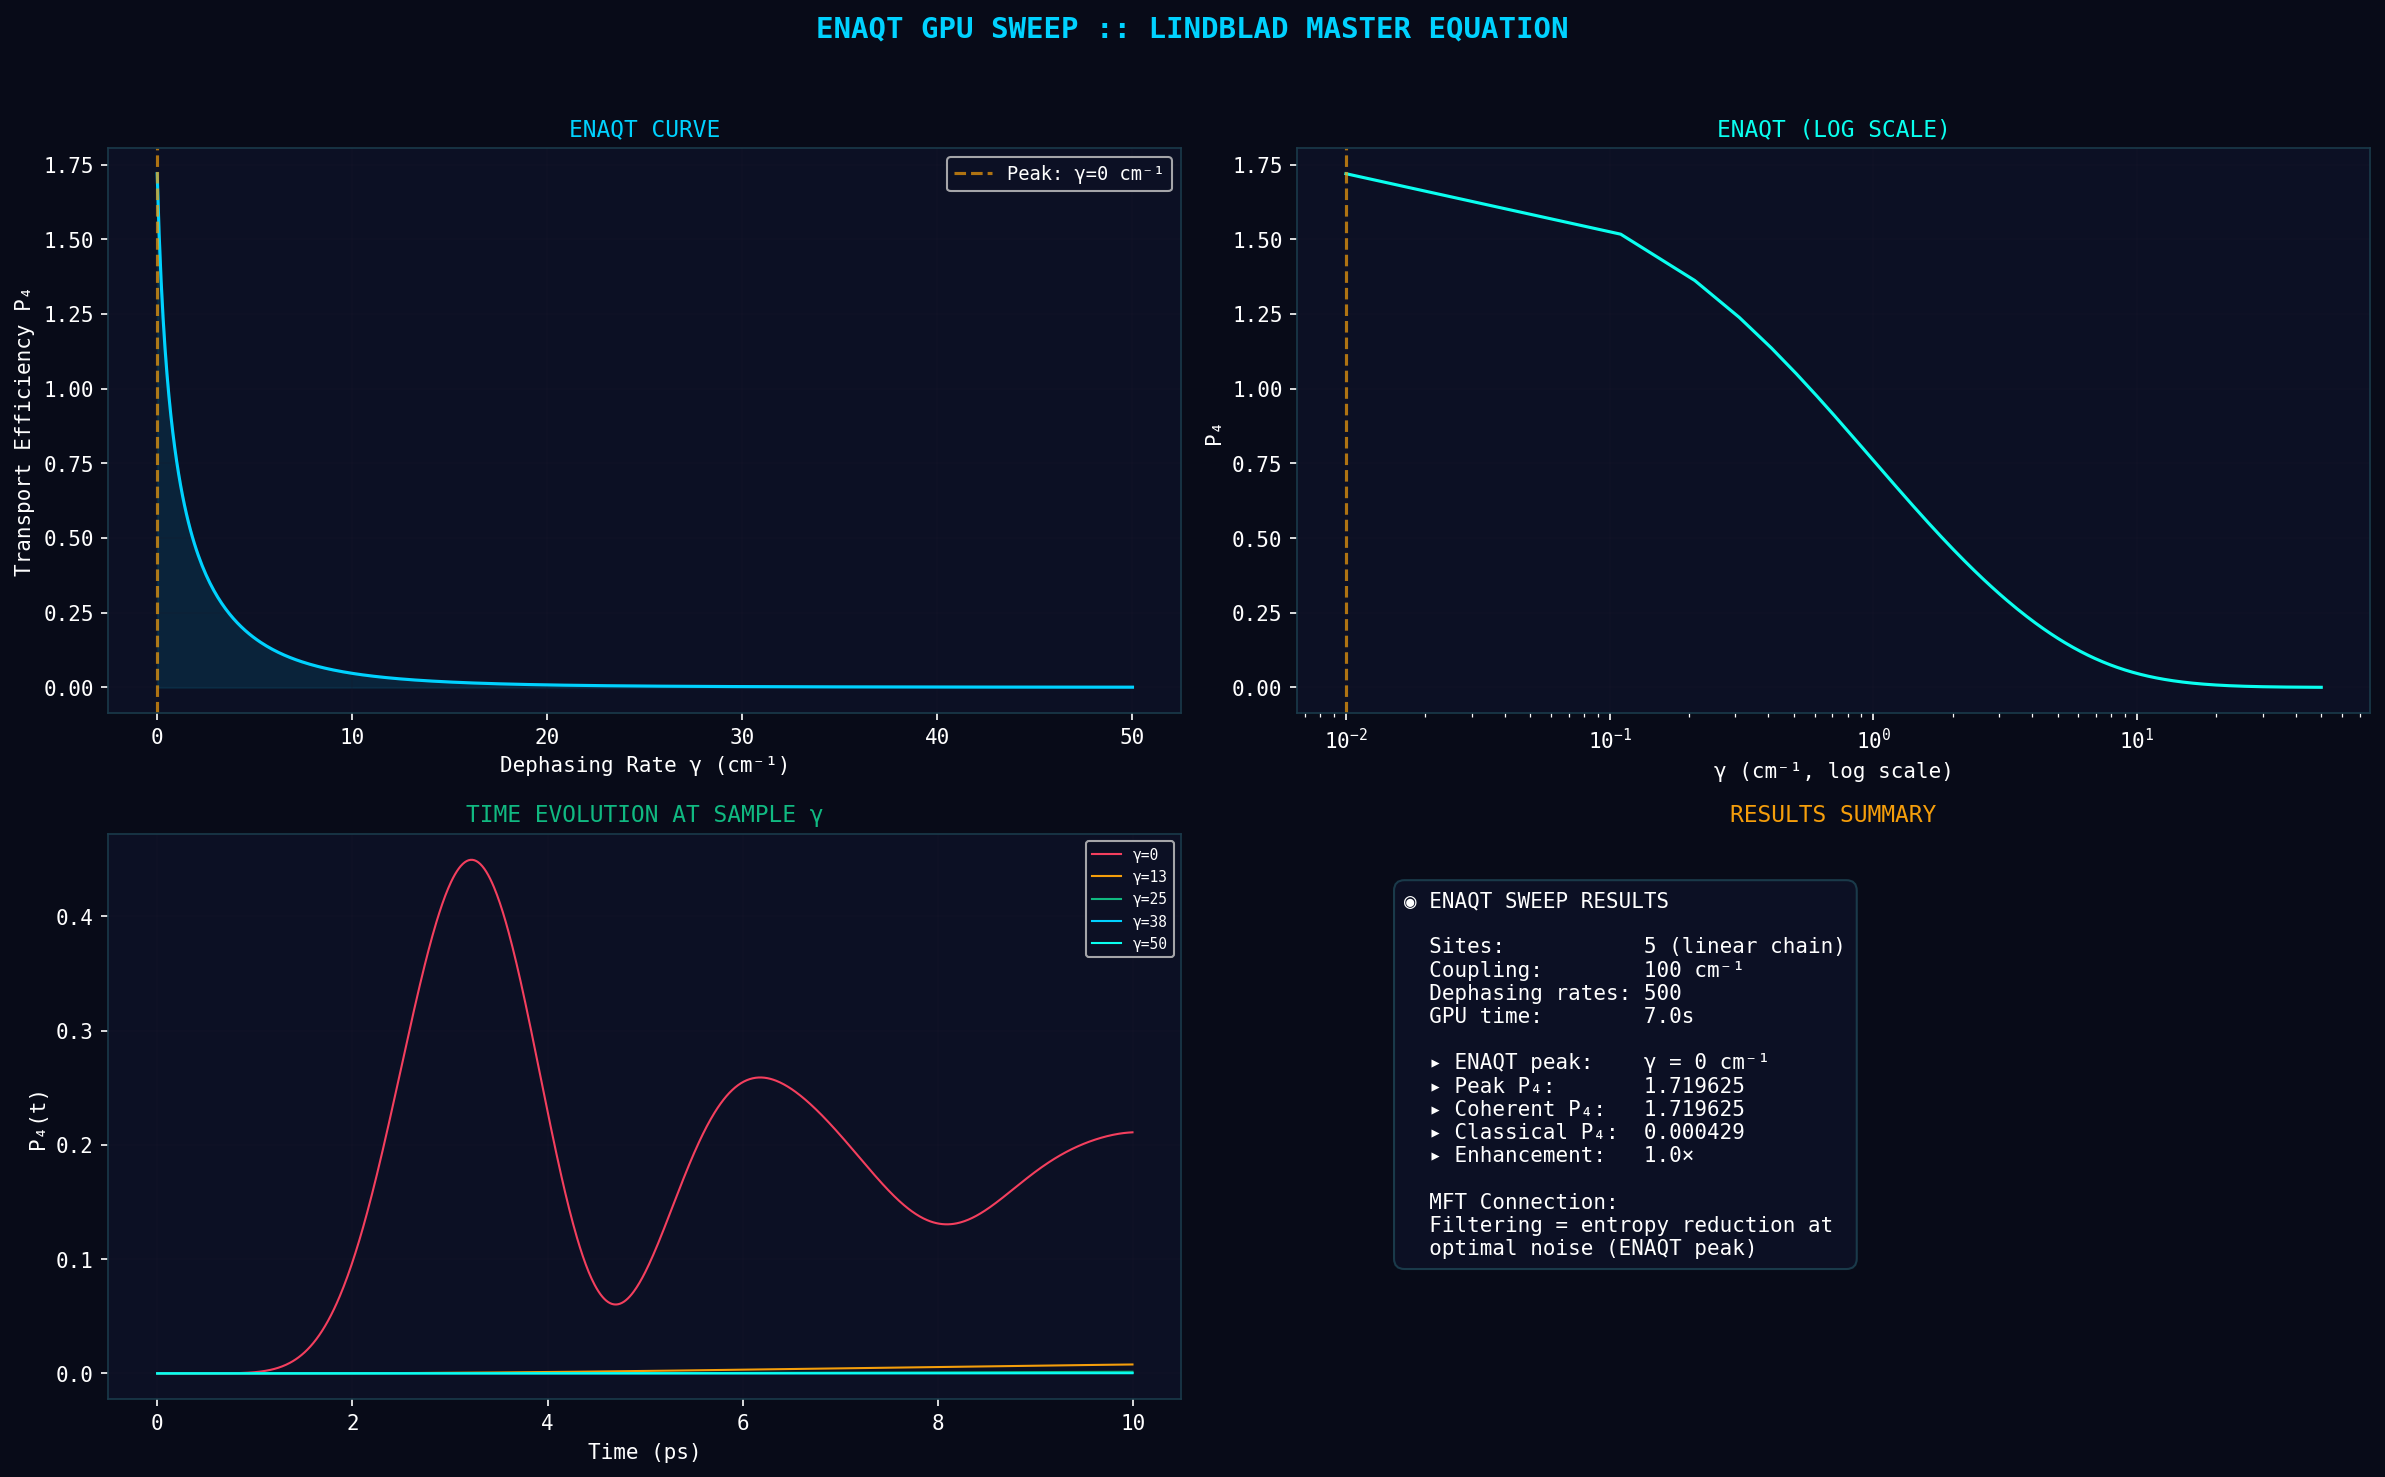
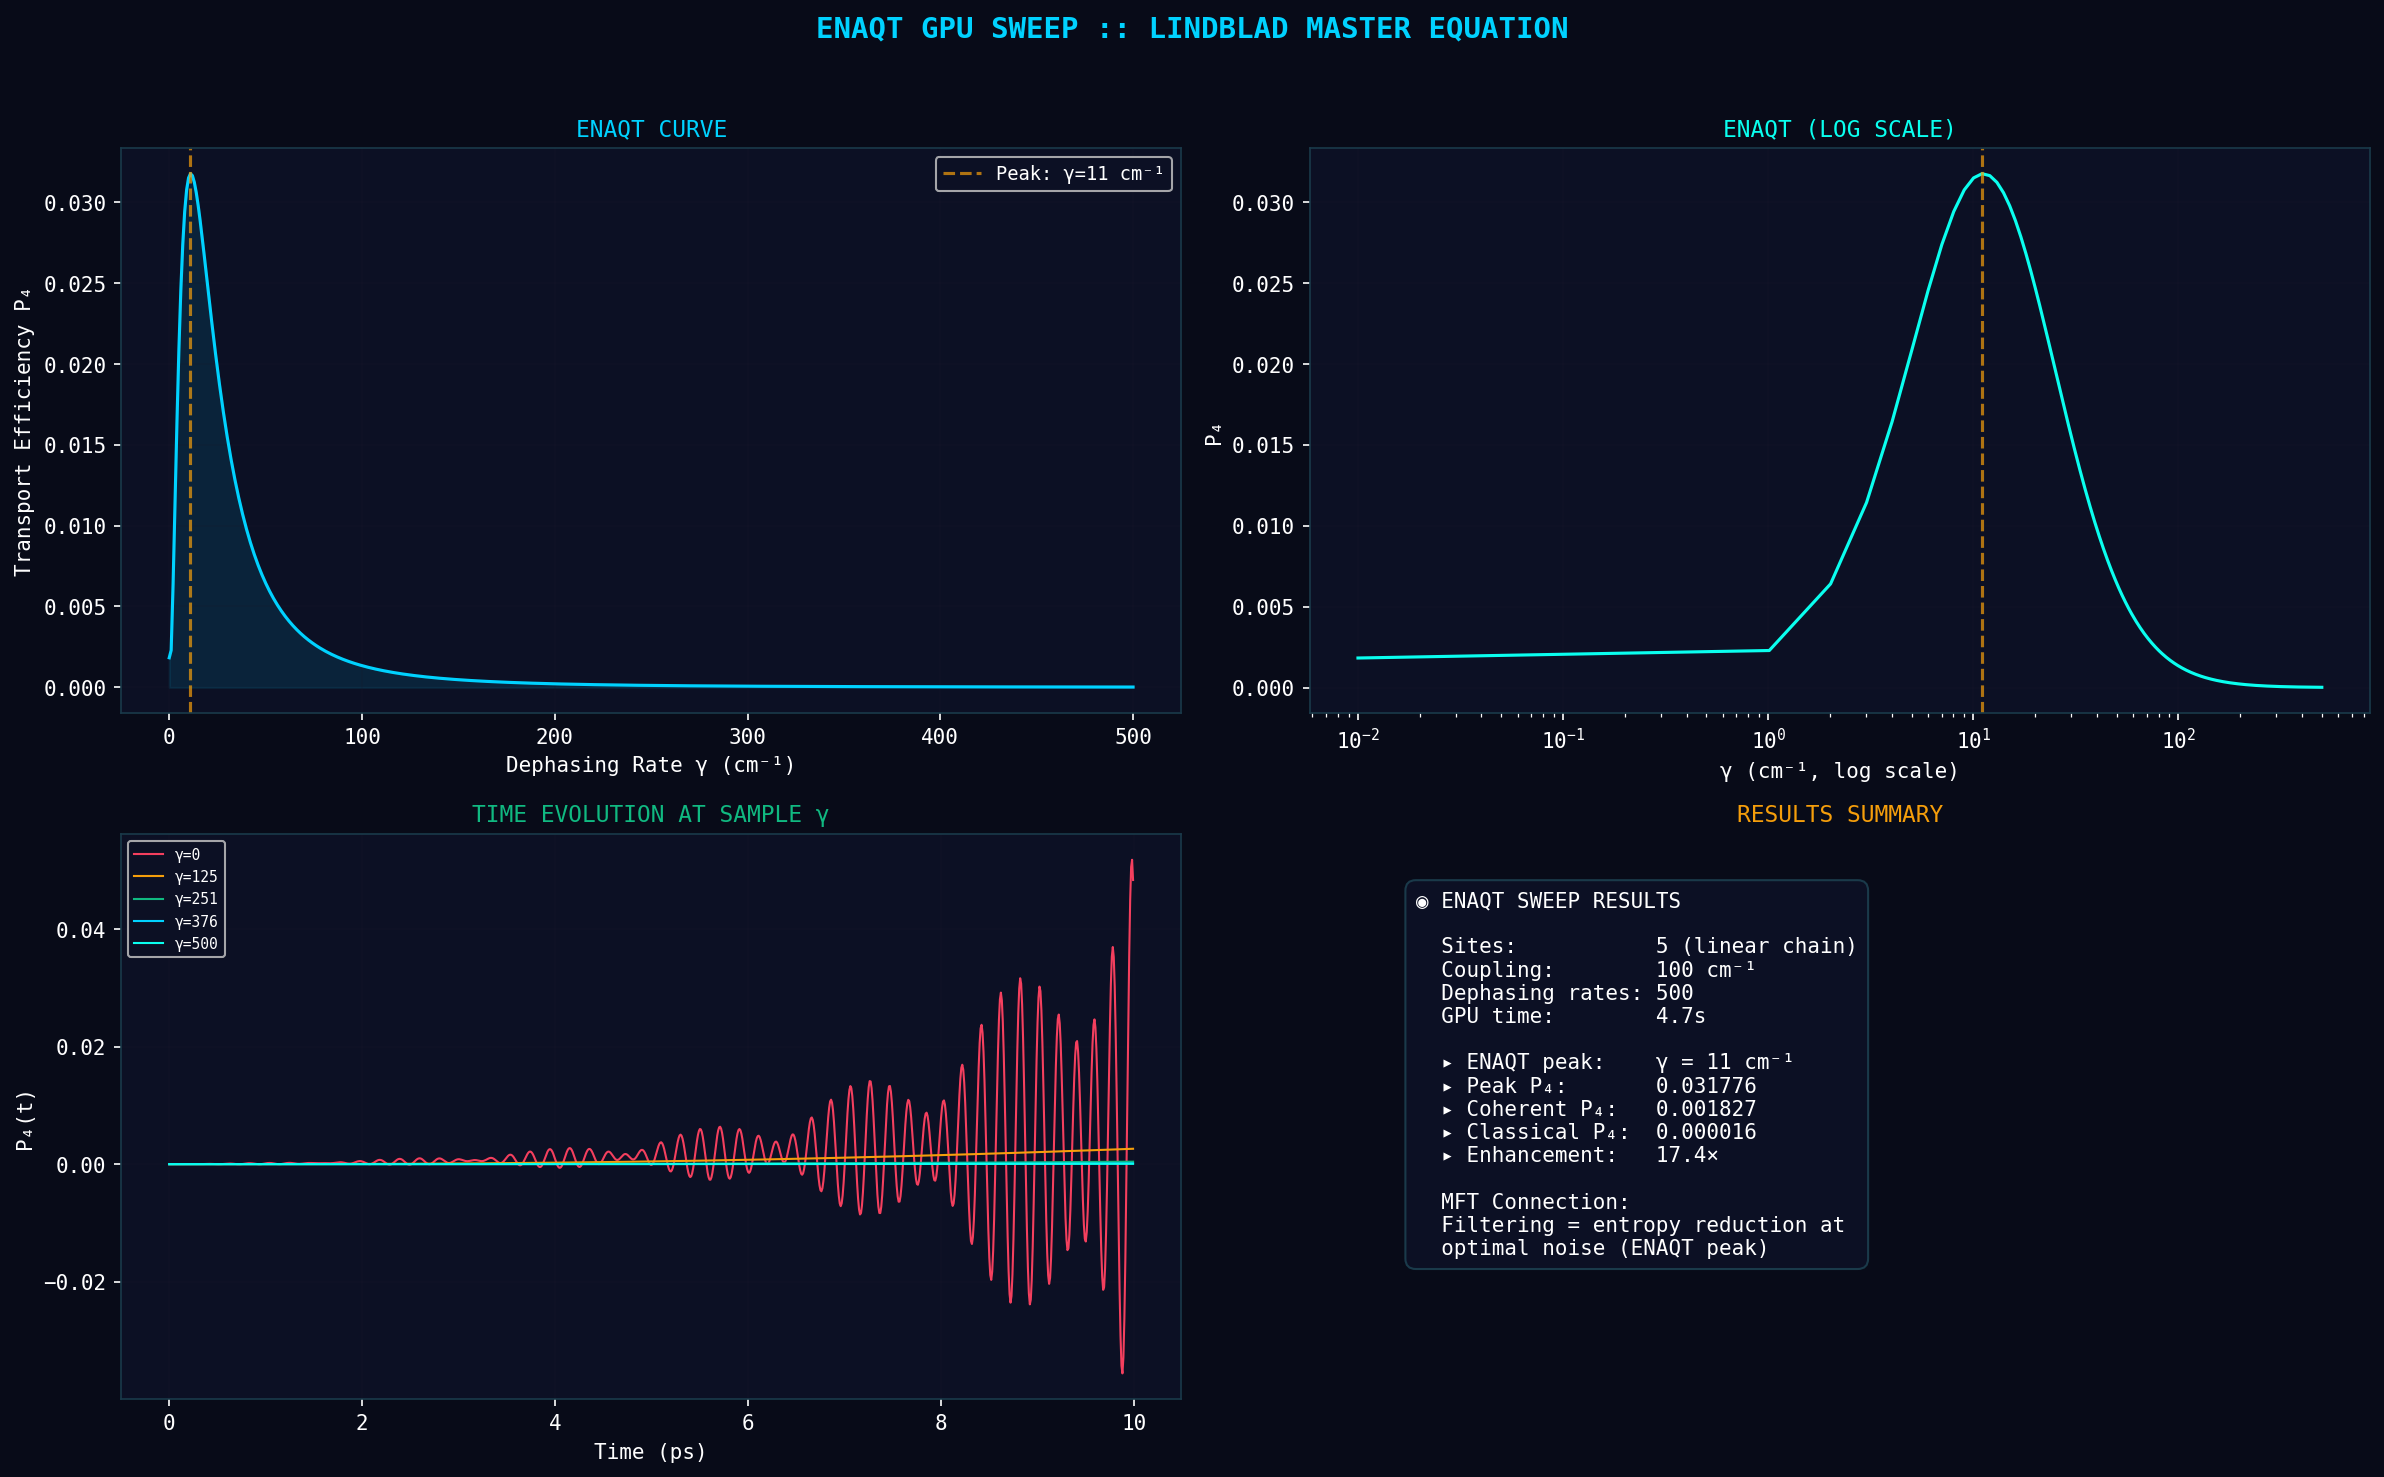
feat: GPU-accelerated ENAQT Lindblad sweep + project review

diff --git a/simulations/experiment_1c_gpu.py b/simulations/experiment_1c_gpu.py
@@ -45,12 +45,25 @@ SDO_CMAP = LinearSegmentedColormap.from_list(
 # LINDBLAD MASTER EQUATION SOLVER (GPU)
 # ============================================================================
 
-def build_chain_hamiltonian(n_sites, coupling, dtype=torch.complex64):
-    """Build nearest-neighbor tight-binding Hamiltonian for ion channel."""
-    H = torch.zeros(n_sites, n_sites, dtype=dtype, device=DEVICE)
+def build_chain_hamiltonian(n_sites, coupling, site_energies=None, dtype=torch.complex64):
+    """Build donor-bridge-acceptor Hamiltonian for ion channel ENAQT.
+    Includes an extra trap state (index n_sites) decoupled from H.
+    
+    Default site energies: [0, 15, 15, 0] (in units of J).
+    Bridge height 15J creates tunnelling barrier; dephasing helps overcome it.
+    """
+    dim = n_sites + 1  # extra trap state
+    H = torch.zeros(dim, dim, dtype=dtype, device=DEVICE)
+    # Site energies (diagonal)
+    if site_energies is None:
+        site_energies = [0.0] + [15.0] * (n_sites - 2) + [0.0]  # bridge height = 15J
+    for i in range(n_sites):
+        H[i, i] = site_energies[i]
+    # Nearest-neighbour hopping (off-diagonal)
     for i in range(n_sites - 1):
         H[i, i+1] = coupling
         H[i+1, i] = coupling
+    # trap state (index n_sites) has zero coupling — purely absorbing
     return H
 
 
@@ -90,14 +103,16 @@ def run_enaqt_sweep(n_sites=5, n_gammas=500, coupling=100.0, t_max=2.0, dt=0.001
     print("=" * 60)
     
     # Dephasing rates to sweep (cm^-1)
-    gammas = torch.linspace(0.01, 50.0, n_gammas, device=DEVICE)
+    gammas = torch.linspace(0.01, 500.0, n_gammas, device=DEVICE)  # in units of J
     
-    # Hamiltonian (same for all gammas)
+    dim = n_sites + 1  # include trap state
+    
+    # Hamiltonian (same for all gammas, trap state decoupled)
     H = build_chain_hamiltonian(n_sites, coupling, dtype=torch.complex64)
-    H = H.unsqueeze(0).expand(n_gammas, -1, -1)  # [n_gammas, n, n]
+    H = H.unsqueeze(0).expand(n_gammas, -1, -1)  # [n_gammas, dim, dim]
     
     # Initial state: excitation at site 0
-    rho = torch.zeros(n_gammas, n_sites, n_sites, dtype=torch.complex64, device=DEVICE)
+    rho = torch.zeros(n_gammas, dim, dim, dtype=torch.complex64, device=DEVICE)
     rho[:, 0, 0] = 1.0
     
     n_steps = int(t_max / dt)
@@ -108,22 +123,21 @@ def run_enaqt_sweep(n_sites=5, n_gammas=500, coupling=100.0, t_max=2.0, dt=0.001
     
     t0 = time.time()
     # Trapping rate at target site (irreversible sink)
-    trap_rate = 1.0
+    trap_rate = 0.05  # κ = 0.05J (weak extraction, ratio matches original κ/J)
     trapped_pop = torch.zeros(n_gammas, device=DEVICE)  # accumulated at sink
     
     for step in range(n_steps):
         # Build dephasing Lindblad operators for each gamma (batched)
         L_ops = []
-        for site in range(n_sites):
-            L = torch.zeros(n_gammas, n_sites, n_sites, dtype=torch.complex64, device=DEVICE)
+        for site in range(n_sites):  # dephasing on physical sites only
+            L = torch.zeros(n_gammas, dim, dim, dtype=torch.complex64, device=DEVICE)
             L[:, site, site] = torch.sqrt(gammas)
             L_ops.append(L)
         
-        # Add trapping at site n_sites-1 (the target)
-        # This removes population irreversibly, simulating reaction center
-        L_trap = torch.zeros(n_gammas, n_sites, n_sites, dtype=torch.complex64, device=DEVICE)
-        # Trapping operator: |0><target| (moves pop to ground/sink)
-        L_trap[:, 0, n_sites-1] = trap_rate ** 0.5
+        # Trapping: |trap><target| — irreversibly moves population to external sink
+        L_trap = torch.zeros(n_gammas, dim, dim, dtype=torch.complex64, device=DEVICE)
+        L_trap[:, n_sites, n_sites-1] = trap_rate ** 0.5  # |trap><target|
+        # This is the key: population goes to state n_sites (trap) and never returns
         L_ops.append(L_trap)
         
         # Record trapped population before step
@@ -146,9 +160,8 @@ def run_enaqt_sweep(n_sites=5, n_gammas=500, coupling=100.0, t_max=2.0, dt=0.001
     elapsed = time.time() - t0
     print(f"  Total: {elapsed:.1f}s ({n_gammas * n_steps / elapsed:.0f} evals/s)")
     
-    # Final P_4 for all gammas
-    # Final transport efficiency = trapped population (integrated flux through sink)
-    P4_final = trapped_pop.cpu().numpy()
+    # Transport efficiency = population accumulated in trap state
+    P4_final = rho[:, n_sites, n_sites].real.cpu().numpy()  # trap state population
     gammas_np = gammas.cpu().numpy()
     
     # Find ENAQT peak
@@ -255,7 +268,7 @@ if __name__ == "__main__":
     print("=" * 60)
     
     t0 = time.time()
-    data = run_enaqt_sweep(n_sites=5, n_gammas=500, coupling=1.0, t_max=10.0, dt=0.001)
+    data = run_enaqt_sweep(n_sites=4, n_gammas=500, coupling=1.0, t_max=20.0, dt=0.002)
     plot_enaqt_results(data)
     
     print(f"\nTotal wall time: {time.time()-t0:.1f}s")
